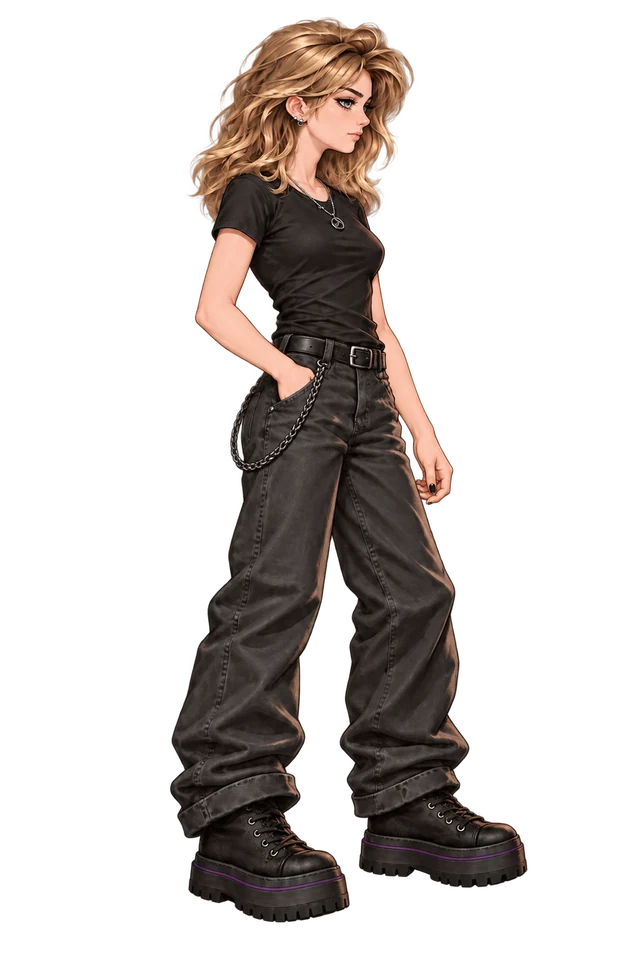
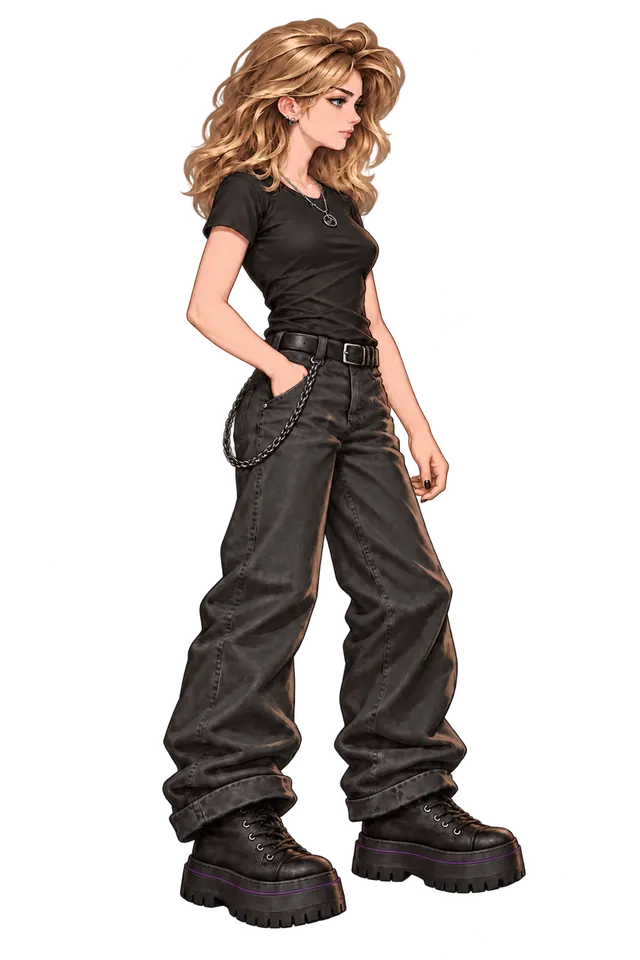
Refine C eyes and align in-game portraits

Changed region(s): [[0.25, 0.0, 0.8438, 0.9688], [0.4062, 0.5312, 0.4375, 0.5625]]

diff --git a/game.js b/game.js
@@ -36,7 +36,7 @@ const PEOPLE = {
 };
 
 const order = ["C", "A", "S", "E"];
-const ART_REVISION = "case-20261009-17";
+const ART_REVISION = "case-20261009-18";
 for (const person of Object.values(PEOPLE)) {
   for (const key of Object.keys(person.art)) person.art[key] += `?v=${ART_REVISION}`;
 }

diff --git a/index.html b/index.html
@@ -84,6 +84,6 @@
     </section>
   </main>
 
-  <script src="game.js?v=case-20261009-17"></script>
+  <script src="game.js?v=case-20261009-18"></script>
 </body>
 </html>
